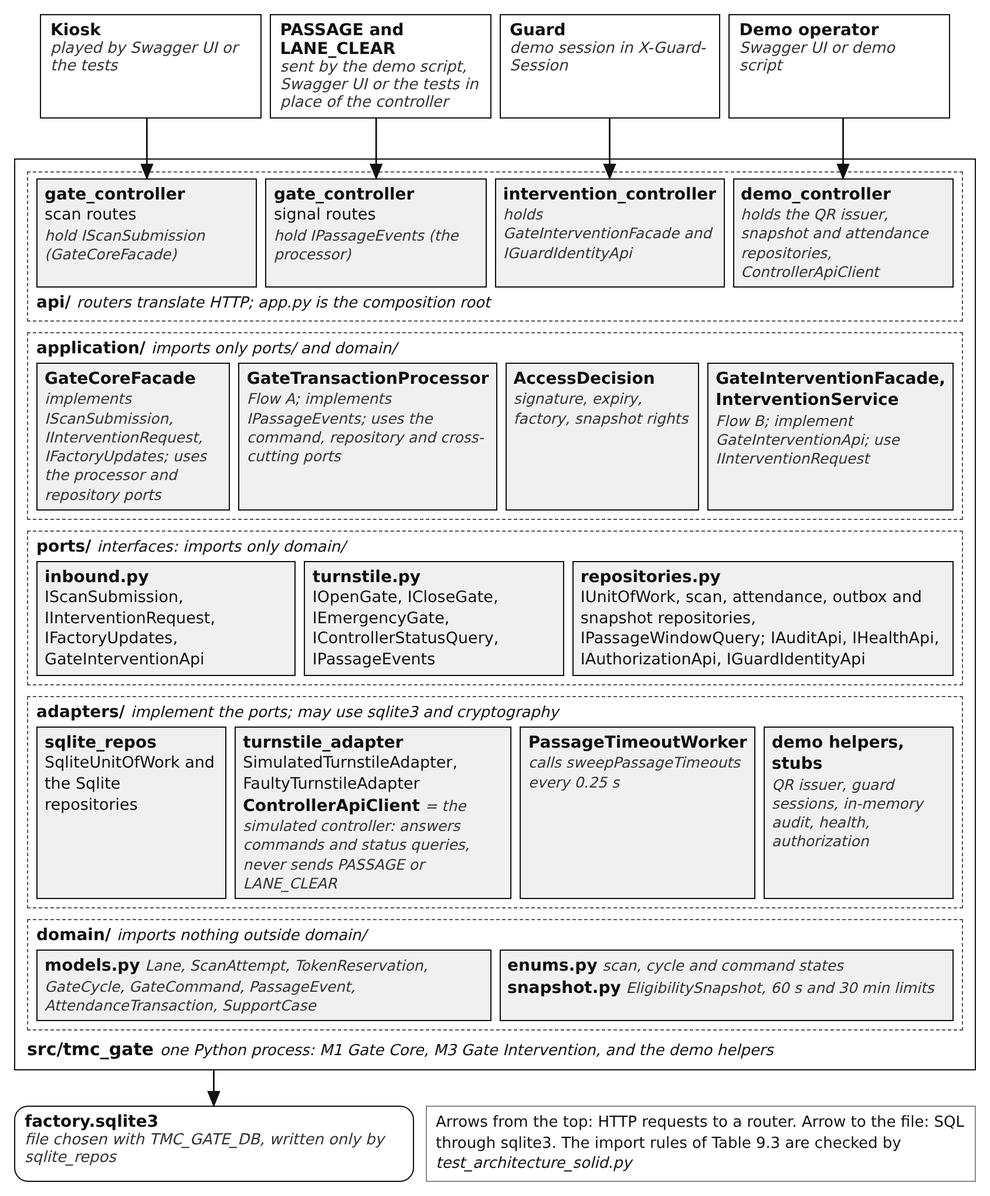
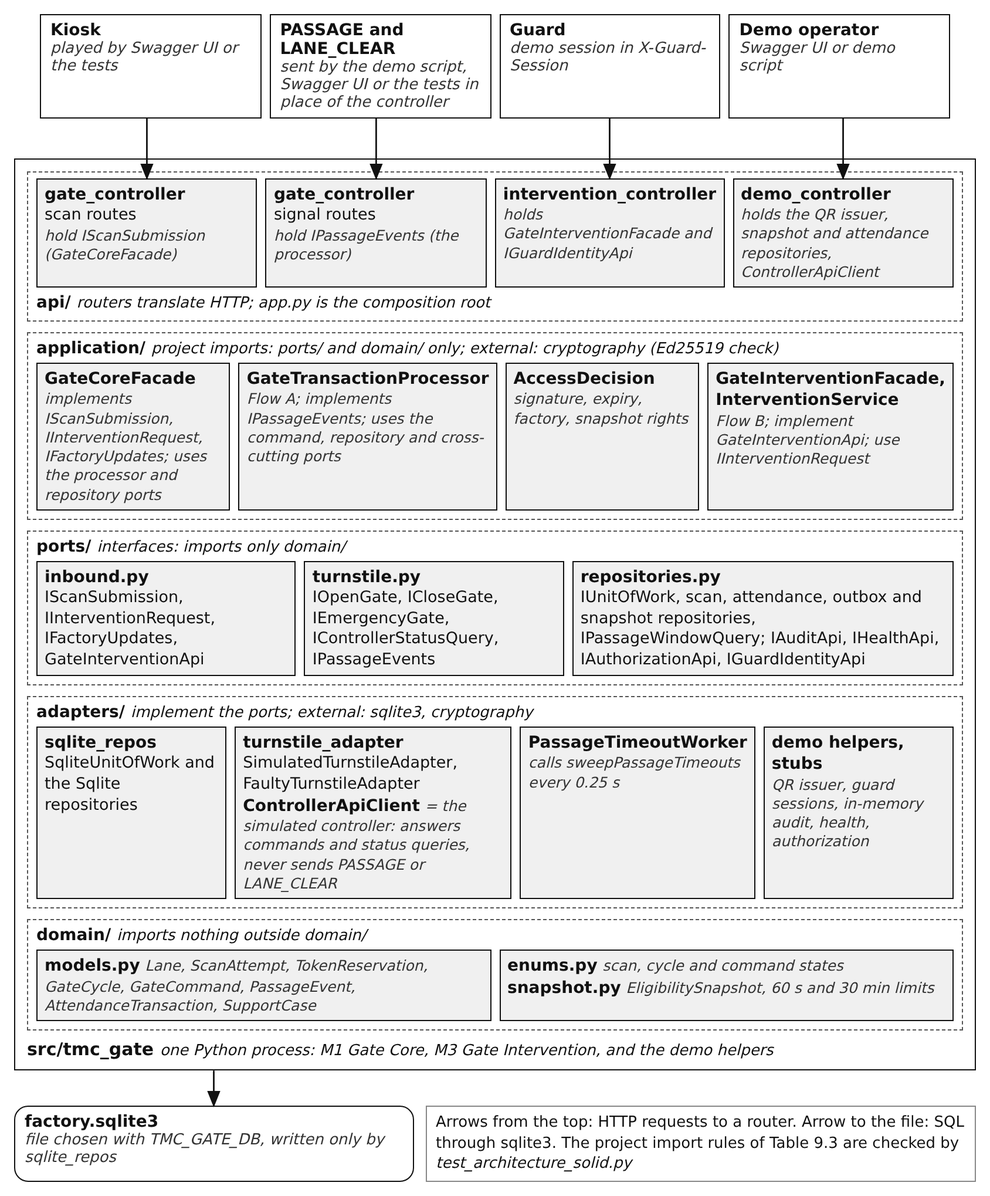
docs(report): one-page Division of Work, 9.9 Source Code, SOLID wording fixes
- Division of Work: No. | Task | Assigned To | Completion, 13 rows, one page
- Ch.9: new 9.9 Source Code; 9.2 points to it instead of repeating the repo intro
- 9.4: SRP by actor (I-06), processor size is not SRP evidence, OCP via Gate Core ports,
  composition root in app.py, three import tests + one ISP test do not prove all of SOLID
- 9.3.4: typed ports narrow dependencies; endpoints and server-side checks enforce access
- Table 9.3 and Fig 9.1: separate project imports from external libraries (cryptography)
- 7.1: SRP actor wording, OCP adapter dependency direction, 7.1.4 emergency coordinator fixed
- 8.2: IScanRepository width (14 ops vs 2 used by facade) as a known ISP limitation
- report/README.md: drop outdated Phase B notes

Claude-Session: https://claude.ai/code/session_011HNWiCp34yc3HGfsGTP4VL

diff --git a/report/diagram/implementation/figure-9-1-prototype-structure.html b/report/diagram/implementation/figure-9-1-prototype-structure.html
@@ -28,7 +28,7 @@ svg{position:absolute;left:0;top:0;overflow:visible;pointer-events:none}
   <div class=b id=ic><b>intervention_controller</b><br><i>holds GateInterventionFacade and IGuardIdentityApi</i></div>
   <div class=b id=dc><b>demo_controller</b><br><i>holds the QR issuer, snapshot and attendance repositories, ControllerApiClient</i></div>
  </div><div class=lt style="margin:5px 0 0">api/ <span class=sub>routers translate HTTP; app.py is the composition root</span></div></div>
- <div class=layer><div class=lt>application/ <span class=sub>imports only ports/ and domain/</span></div><div class=row>
+ <div class=layer><div class=lt>application/ <span class=sub>project imports: ports/ and domain/ only; external: cryptography (Ed25519 check)</span></div><div class=row>
   <div class=b><b>GateCoreFacade</b><br><i>implements IScanSubmission, IInterventionRequest, IFactoryUpdates; uses the processor and repository ports</i></div>
   <div class=b><b>GateTransactionProcessor</b><br><i>Flow A; implements IPassageEvents; uses the command, repository and cross-cutting ports</i></div>
   <div class=b><b>AccessDecision</b><br><i>signature, expiry, factory, snapshot rights</i></div>
@@ -39,7 +39,7 @@ svg{position:absolute;left:0;top:0;overflow:visible;pointer-events:none}
   <div class=b><b>turnstile.py</b><br>IOpenGate, ICloseGate, IEmergencyGate, IControllerStatusQuery, IPassageEvents</div>
   <div class=b style="flex:1.5"><b>repositories.py</b><br>IUnitOfWork, scan, attendance, outbox and snapshot repositories, IPassageWindowQuery; IAuditApi, IHealthApi, IAuthorizationApi, IGuardIdentityApi</div>
  </div></div>
- <div class=layer><div class=lt>adapters/ <span class=sub>implement the ports; may use sqlite3 and cryptography</span></div><div class=row>
+ <div class=layer><div class=lt>adapters/ <span class=sub>implement the ports; external: sqlite3, cryptography</span></div><div class=row>
   <div class=b id=sq><b>sqlite_repos</b><br>SqliteUnitOfWork and the Sqlite repositories</div>
   <div class=b id=ta style="flex:1.5"><b>turnstile_adapter</b><br>SimulatedTurnstileAdapter, FaultyTurnstileAdapter<br><b>ControllerApiClient</b> <i>= the simulated controller: answers commands and status queries, never sends PASSAGE or LANE_CLEAR</i></div>
   <div class=b><b>PassageTimeoutWorker</b><br><i>calls sweepPassageTimeouts every 0.25 s</i></div>
@@ -53,7 +53,7 @@ svg{position:absolute;left:0;top:0;overflow:visible;pointer-events:none}
 </div>
 <div class=below>
  <div class=ext id=db style="border-radius:12px;flex:1"><b>factory.sqlite3</b><br><i>file chosen with TMC_GATE_DB, written only by sqlite_repos</i></div>
- <div class=leg>Arrows from the top: HTTP requests to a router. Arrow to the file: SQL through sqlite3. The import rules of Table 9.3 are checked by <i>test_architecture_solid.py</i></div>
+ <div class=leg>Arrows from the top: HTTP requests to a router. Arrow to the file: SQL through sqlite3. The project import rules of Table 9.3 are checked by <i>test_architecture_solid.py</i></div>
 </div>
 <svg id=s width=850 height=1200><defs><marker id=a markerWidth=10 markerHeight=8 refX=9 refY=4 orient=auto><path d="M0,0 L10,4 L0,8 z" fill="#111"/></marker></defs></svg>
 </div>

diff --git a/report/chapters/task2.tex b/report/chapters/task2.tex
@@ -47,13 +47,7 @@ Since there is no real controller, central application, or standby server, the p
 \phantomsection
 \addcontentsline{toc}{subsection}{9.2. Technology Stack and Repository}
 
-The source code, the tests, and the LaTeX source of this report are kept together in one GitHub repository:
-
-\begin{center}
-{\small\url{https://github.com/Khoavan1406-hub/tmc-qr-attendance-cc01-group1}}
-\end{center}
-
-The submitted version is the commit on the \texttt{main} branch with the tag \texttt{m2-submission}. Table 9.2 shows the tools we used and why each one fits this prototype.
+The code, the tests, and the source of this report are kept in one GitHub repository, described in Section 9.9. Table 9.2 shows the tools we used and why each one fits this prototype.
 
 \begin{longtable}{|>{\raggedright\arraybackslash}p{90.5pt}|>{\raggedright\arraybackslash}p{120.5pt}|>{\raggedright\arraybackslash}p{199.5pt}|}
 \hline
@@ -100,7 +94,7 @@ The code lives in one Python package, \code{src/tmc_gate}. We describe it in fou
 \phantomsection
 \addcontentsline{toc}{subsubsection}{9.3.1. Folders and Layers}
 
-The folders follow the Entry, Business, and Persistence layers of Gate Core in Figure 4.2 (Section 4.1.6). The interfaces that Gate Core owns have their own folder, \code{ports/}, between the business rules and the adapters, so the business code can depend on them without knowing which adapter is behind them. Table 9.3 shows what each folder holds and what it is allowed to import. We did not want this to stay a convention that people could forget, so \code{tests/test_architecture_solid.py} reads the import statements of every file and fails when a layer imports something it should not.
+The folders follow the Entry, Business, and Persistence layers of Gate Core in Figure 4.2 (Section 4.1.6). The interfaces that Gate Core owns have their own folder, \code{ports/}, between the business rules and the adapters, so the business code can depend on them without knowing which adapter is behind them. Table 9.3 shows what each folder holds and what it is allowed to import. The last column separates imports between our own folders from external libraries: the import tests only forbid the application layer from using storage, web, and adapter code, so AccessDecision may use the \texttt{cryptography} library directly to verify the Ed25519 signature. We did not want this to stay a convention that people could forget, so \code{tests/test_architecture_solid.py} reads the import statements of every file and fails when a layer imports something it should not.
 
 \begin{longtable}{|>{\raggedright\arraybackslash}p{86.5pt}|>{\raggedright\arraybackslash}p{194.5pt}|>{\raggedright\arraybackslash}p{129.5pt}|}
 \hline
@@ -113,9 +107,9 @@ The folders follow the Entry, Business, and Persistence layers of Gate Core in F
 \hline
 \code{ports/} & Interfaces owned by Gate Core: IScanSubmission, IInterventionRequest, IFactoryUpdates, the turnstile ports, IUnitOfWork, the repository ports, IPassageWindowQuery, and the cross-cutting ports. & \code{domain/} \\
 \hline
-\code{application/} & AccessDecision, GateTransactionProcessor, GateCoreFacade, InterventionService, and GateInterventionFacade. & \code{domain/}, \code{ports/} \\
+\code{application/} & AccessDecision, GateTransactionProcessor, GateCoreFacade, InterventionService, and GateInterventionFacade. & \code{domain/}, \code{ports/}; external library: \texttt{cryptography} (Ed25519 check in AccessDecision) \\
 \hline
-\code{adapters/} & SQLite repositories and unit of work, PassageTimeoutWorker, the simulated turnstile adapters, the demo QR issuer, the demo guard sessions, and in-memory stubs. & All inner layers, plus \texttt{sqlite3} and \texttt{cryptography} \\*
+\code{adapters/} & SQLite repositories and unit of work, PassageTimeoutWorker, the simulated turnstile adapters, the demo QR issuer, the demo guard sessions, and in-memory stubs. & All inner layers; external libraries: \texttt{sqlite3}, \texttt{cryptography} \\*
 \hline\noalign{\nobreak}
 \code{api/} & FastAPI routers for the kiosk, the controller signals, the guard actions, and the demo helpers. \code{app.py} is the composition root that creates every object and passes the adapters in. & Everything \\
 \hline
@@ -226,7 +220,7 @@ Figure 9.3 is a screenshot of the Swagger page of the running prototype. The end
 
 \vspace{10pt}
 
-Table 9.5 lists the same endpoints with what each router is given in \code{app.py}. The kiosk and signal routes only get a port, so they cannot start an intervention. The guard routes get GateInterventionFacade and, for the session check, IGuardIdentityApi; they have no way to submit a scan. The demo routes are wired directly to demo helpers, which is acceptable only because they are not mounted outside demo mode.
+Table 9.5 lists the same endpoints with what each router is given in \code{app.py}. The kiosk and signal routes are typed with a port, so the dependency they declare is narrow. This is not an access control by itself: in Python, \code{app.py} still passes the whole GateCoreFacade object to the kiosk router. What keeps a kiosk from starting an intervention is that no kiosk endpoint calls such an operation, and that the guard endpoints check the guard session on the server. The guard routes get GateInterventionFacade and, for that session check, IGuardIdentityApi. The demo routes are wired directly to demo helpers, which is acceptable only because they are not mounted outside demo mode.
 
 \noindent\begin{minipage}{\linewidth}
 \centering
@@ -271,17 +265,19 @@ Table 9.5 lists the same endpoints with what each router is given in \code{app.p
 \phantomsection
 \addcontentsline{toc}{subsection}{9.4. SOLID in the Code}
 
-Section 7.1 explains how SOLID shaped the modules on paper. Here we look at where each principle shows up in the code and which test would fail if we broke it.
+Section 7.1 explains how SOLID shaped the modules on paper. Here we look at where each principle shows up in the code and, where one exists, which test checks it.
 
-The single responsibility principle is easiest to see in the application layer. AccessDecision (\code{application/access_decision.py}) only checks the token against the snapshot and returns a DecisionResult. It has no turnstile port, so it cannot open a gate even by mistake. The rules about how fresh the access data must be live in EligibilitySnapshot (\code{domain/snapshot.py}), the gate cycle lives in GateTransactionProcessor, and InterventionService only checks what a guard is allowed to do and leaves the gate commands to Gate Core. Because of this split, \code{test_pkg1_snapshot.py} can test the snapshot rules alone, and \code{test_pkg2_access_decision.py} can call AccessDecision.evaluate twice on the same data and check that it gives the same answer without changing anything.
+The single responsibility principle is about actors: a module should answer to one group of people who ask for the same kind of change. ``One reason to change'' says the same thing, as long as the reason is traced back to who asks for it. In our code, the gate rules are asked for by the people who run the factory gates and security, while shift and payroll rules come from HR. Because of I-06, a change in the shift or attendance rules of HR does not reach the gate decision: AccessDecision (\code{application/access_decision.py}) only checks the token against the snapshot and returns a DecisionResult, and it has no shift input and no turnstile port. The rules about how fresh the access data must be live in EligibilitySnapshot (\code{domain/snapshot.py}), and InterventionService only checks what a guard is allowed to do and leaves the gate commands to Gate Core.
 
-For the open/closed principle, the place that changes is the controller. A new turnstile model would be a new class in \code{adapters/} that implements ITurnstileControl, and only \code{api/app.py} decides which adapter to use. \code{test_pkg5_adapter_with_processor.py} runs the same GateTransactionProcessor with both adapter classes we have, and the processor did not need any change for the second one.
+GateTransactionProcessor is the largest class, and its size alone does not show that SRP holds or fails. Its responsibility is to coordinate the life cycle of one gate transaction: accept the scan, reserve the lane, open, handle PASSAGE and LANE\_CLEAR, close, and handle the emergency commands on the same lane. The eligibility check, the storage, and the controller protocol have been moved out to AccessDecision, the repositories, and the adapters, so a change in one of them does not edit the processor. GateCoreFacade is a thin entry point that turns the inbound ports into processor calls; its name is not evidence of SRP either. Because of the split, \code{test_pkg1_snapshot.py} can test the snapshot rules alone, and \code{test_pkg2_access_decision.py} can call AccessDecision.evaluate twice on the same data and check that it gives the same answer without changing anything.
+
+For the open/closed principle, the place that changes is the controller. The ports in \code{ports/turnstile.py} belong to Gate Core, and the adapters depend on them, not the other way round. A new turnstile model would be a new class in \code{adapters/} that implements ITurnstileControl, and \code{api/app.py} decides which adapter is passed in. This is close to the Strategy idea from the lecture: the processor keeps its rules and only the object behind the port is swapped. \code{test_pkg5_adapter_with_processor.py} runs the same GateTransactionProcessor with both adapter classes we have, and the processor did not need any change for the second one.
 
 The Liskov substitution principle matters most for the meaning of a controller result. The port file \code{ports/turnstile.py} fixes the set of results that each command may return. A receipt or a timeout must come back as UNDETERMINED, not as OPEN\_CONFIRMED or CONTROLLER\_ERROR. One contract test file, \code{test_pkg5_turnstile_contract.py}, runs the same checks against SimulatedTurnstileAdapter and FaultyTurnstileAdapter, and both pass. We also wrote a third adapter that reports a receipt as OPEN\_CONFIRMED. It fails the same contract, and this test is marked as an expected failure on purpose.
 
-Interface segregation shows in how GateCoreApi is split into IScanSubmission, IInterventionRequest, and IFactoryUpdates (\code{ports/inbound.py}). The kiosk router only receives IScanSubmission, InterventionService only receives IInterventionRequest, and the controller routes only receive IPassageEvents. On the other side, the processor depends on IOpenGate, ICloseGate, and IEmergencyGate one by one, even though one adapter class implements all three as ITurnstileControl. \code{test_interface_segregation_principle_contracts} checks that the kiosk interface has no intervention or sync operation and that IPassageEvents has only onPassage and onLaneClear.
+Interface segregation is judged from the consumer's side. It shows in how GateCoreApi is split into IScanSubmission, IInterventionRequest, and IFactoryUpdates (\code{ports/inbound.py}). The kiosk router only receives IScanSubmission, InterventionService only receives IInterventionRequest, and the controller routes only receive IPassageEvents. On the other side, the processor depends on IOpenGate, ICloseGate, and IEmergencyGate one by one, even though one adapter class implements all three as ITurnstileControl. \code{test_interface_segregation_principle_contracts} checks that the kiosk interface has no intervention or sync operation and that IPassageEvents has only onPassage and onLaneClear. The split is not complete everywhere: IScanRepository still has 14 operations, all used by the processor, while GateCoreFacade only uses get\_scan and save\_scan. Section 8.2 discusses this limitation.
 
-Dependency inversion is what made the group work possible. GateTransactionProcessor receives all its ports and its IUnitOfWork through the constructor, and the application layer does not import \texttt{sqlite3}, \texttt{fastapi}, \code{adapters/}, or \code{api/}; three import tests in \code{test_architecture_solid.py} check this. We wrote and merged the ports before anything else, so six people could work in parallel against fakes. Packages 1, 3, and 6 were finished and tested before the SQLite repositories or the turnstile adapter existed.
+Dependency inversion is what made the group work possible. GateTransactionProcessor receives all its ports and its IUnitOfWork through the constructor, and the application layer does not import \texttt{sqlite3}, \texttt{fastapi}, \code{adapters/}, or \code{api/}. \code{api/app.py} is the composition root: it creates the main dependencies (the SQLite repositories and unit of work, the turnstile adapter, the processor, the facades, and the timeout worker) and connects them. In \code{test_architecture_solid.py}, three import tests check the domain, ports, and application layers one by one, and a fourth test checks the ISP splits. These tests check the direction of dependencies and the shape of the ports; they do not prove all five principles, and SRP and OCP in particular are design judgements supported by the examples above. We wrote and merged the ports before anything else, so six people could work in parallel against fakes. Packages 1, 3, and 6 were finished and tested before the SQLite repositories or the turnstile adapter existed.
 
 Only one port was added after that point. While checking the code before submission we found that a cycle with no PASSAGE could stay OPENED, because nothing triggered the 15-second timeout once LANE\_CLEAR had already released the lane. The processor needed a way to find such cycles by their own state, so we added the small read port IPassageWindowQuery (\code{list_cycles_awaiting_passage}, \code{get_cycle_by_scan}) instead of putting two more methods on IScanRepository. SqliteScanRepository implements it, and PassageTimeoutWorker uses it through the processor (Section 9.5, step A8).
 
@@ -525,3 +521,18 @@ Table 9.8 only states what can be seen in the HTTP answers and in the database f
 Passing tests do not close the open issues listed in Section 10.2. The simulated controller answers commands the way I-01 and I-03 assume, and the PASSAGE and LANE\_CLEAR signals of I-05 are sent by the tests and scripts, so the runs show that Gate Core handles those signals correctly, but not that a real controller sends them. The tests check how the 2-second budget is shared out using a test clock; they do not measure the response time on factory hardware with a real kiosk and controller. There is also a gap in the budget itself. The prototype starts a 2,000 ms processing budget when processScan begins, because the HTTP route does not pass a kiosk deadline. This budget does not reserve the kiosk, network, and display time allocated in Table 5.4. Meeting NFR-01 requires budgeting those stages together and measuring from QR reading to result display. SQLite has no standby, so the synchronous replication and the failover rules of Section 5.6 are not tested either.
 
 Synchronization is only partly there. IFactoryUpdates applies snapshot changes and reads the local outbox, but without Site Sync or a central application we drive degraded mode by setting the age of the access data by hand. Finally, the guard session and the authorization checks are demo stubs, and the QR private key is created in the same process as the factory code, which the target design does not allow.
+
+
+\Needspace{9\baselineskip}
+\subsection*{9.9. Source Code}
+
+\phantomsection
+\addcontentsline{toc}{subsection}{9.9. Source Code}
+
+The implementation, the automated tests, and the LaTeX source of this report are available at
+
+\begin{center}
+{\small\url{https://github.com/Khoavan1406-hub/tmc-qr-attendance-cc01-group1}}
+\end{center}
+
+The Python package is in \code{src/tmc_gate/}, the tests are in \code{tests/}, and the report source is in \code{report/}. The \code{README.md} file at the root of the repository explains how to install the dependencies, run the test suite, and start the demo, while \code{ARCHITECTURE_RULES.md} records the rules we followed when writing the code, such as the allowed import directions and the gate thresholds. The architectural decisions themselves are not kept as separate files in the repository; they are documented in Chapter 6. All work was merged into the \texttt{dev} branch through pull requests. The code in \code{src/} and \code{tests/} has not changed since commit 5bd6721, which is the commit behind the test results in Section 9.7.

diff --git a/report/chapters/chapter7.tex b/report/chapters/chapter7.tex
@@ -17,16 +17,16 @@ Each module owns its own decisions and data. Gate Core owns factory scan and pas
 \phantomsection
 \addcontentsline{toc}{subsubsection}{7.1.1. Single Responsibility Principle (SRP)}
 
-A unit should have one cohesive responsibility, so that only one kind of change makes it change. This is different from doing only one operation. Gate Transaction Processor, for example, receives a scan, handles repeated requests, asks for the eligibility check, stores the accepted attempt, and coordinates opening, passage, and closing. It does many things, but all of them belong to one gate transaction, while accounts, shift rules, and reports live in other components.
+Following the lecture, a module should be responsible to one actor, that is, one group of users or stakeholders who ask for the same kind of change. ``One reason to change'' is the same rule when the reason is traced back to that actor. This is different from doing only one operation. Gate Transaction Processor, for example, receives a scan, handles repeated requests, asks for the eligibility check, stores the accepted attempt, and coordinates opening, passage, and closing. It does many things, but all of them belong to one gate transaction and are asked for by the same side of the business, the people who run the gates and factory security. Accounts, shift rules, and reports are requested by other actors and live in other components.
 
-The same idea separates Access Decision from Turnstile Adapter. Access Decision only decides eligibility, so a change in how the controller is called stays in the adapter. Shift rules are kept apart in the same way: under I-06 they affect Work Schedule Policy and attendance aggregation, not the gate decision. If TMC later wants shifts to restrict physical access as well, Access Decision would need an explicit access-policy rule, which should still be separate from the QR signature check. In Attendance, Attendance Review manages cases and approval authority, while Attendance Consolidation applies the right decision version, prevents duplicates, and keeps links to the original data. As a result, a new approval workflow or a new controller can be introduced without rewriting attendance aggregation or the gate rules.
+The same idea separates Access Decision from Turnstile Adapter. Access Decision only decides eligibility, so a change in how the controller is called stays in the adapter. Shift rules are kept apart in the same way. They belong to HR, and under I-06 they affect Work Schedule Policy and attendance aggregation, not the gate decision, so a change that HR asks for in shift or attendance rules does not change who may pass the gate. If TMC later wants shifts to restrict physical access as well, Access Decision would need an explicit access-policy rule, which should still be separate from the QR signature check. In Attendance, Attendance Review manages cases and approval authority, while Attendance Consolidation applies the right decision version, prevents duplicates, and keeps links to the original data. As a result, a new approval workflow or a new controller can be introduced without rewriting attendance aggregation or the gate rules.
 
 \subsubsection*{7.1.2. Open--Closed Principle (OCP)}
 
 \phantomsection
 \addcontentsline{toc}{subsubsection}{7.1.2. Open--Closed Principle (OCP)}
 
-OCP is about adding behavior by adding code at a known extension point instead of editing the rules that already work. In TMC the clearest extension points are the two external integrations. A new controller that keeps the meaning of the turnstile ports (opening and closing results, passage and lane-clear events, emergency release and reset) only needs a new adapter, and the gate rules stay as they are. In the same way, an HR/Payroll format change that keeps the meaning of IPayrollSubmission only touches HR/Payroll Adapter. Work Schedule Policy plays a similar role for shift and aggregation rules: a change that fits its configuration model is made once, not separately in Attendance and Reporting, but a rule outside that model still needs new code and tests.
+OCP is about adding behavior by adding code at a known extension point instead of editing the rules that already work. In TMC the clearest extension points are the two external integrations. The ports are defined by the module that uses them (Gate Core for the turnstile, Payroll Handover for HR/Payroll), and the adapters depend on those ports. A new controller that keeps the meaning of the turnstile ports (opening and closing results, passage and lane-clear events, emergency release and reset) only needs a new adapter, and the gate rules stay as they are. In the same way, an HR/Payroll format change that keeps the meaning of IPayrollSubmission only touches HR/Payroll Adapter. Work Schedule Policy plays a similar role for shift and aggregation rules: a change that fits its configuration model is made once, not separately in Attendance and Reporting, but a rule outside that model still needs new code and tests.
 
 We should be honest about how far this goes. Each application is a Modular Monolith, so replacing an adapter may still need a new release of that application. What OCP gives us here is that an integration change does not spread into unrelated components.
 
@@ -58,7 +58,7 @@ IPayrollSubmission has the same kind of rule. A receipt acknowledgement (I-02) o
 A consumer should only see the operations it actually calls. Table 4.20 lists the public interfaces in groups, and in the design each group is split into narrower contracts:
 
 \begin{itemize}[leftmargin=36pt, itemsep=2pt, topsep=4pt, parsep=2pt]
-  \item \textbf{Turnstile ports.} IOpenGate (openGate with a time limit), ICloseGate (closeGate), and IEmergencyGate (emergencyRelease and reset) are commands that return their results, and Turnstile Adapter implements them against the verified controller API (I-01, I-05). IPassageEvents (PASSAGE and LANE\_CLEAR) goes the other way: Gate Core implements it, and Turnstile Adapter calls it when the controller reports these events. Gate Transaction Processor uses the normal-cycle contracts, and the emergency coordinator uses IEmergencyGate. IControllerStatusQuery is a separate optional contract, used only where the controller API supports it.
+  \item \textbf{Turnstile ports.} IOpenGate (openGate with a time limit), ICloseGate (closeGate), and IEmergencyGate (emergencyRelease and reset) are commands that return their results, and Turnstile Adapter implements them against the verified controller API (I-01, I-05). IPassageEvents (PASSAGE and LANE\_CLEAR) goes the other way: Gate Core implements it, and Turnstile Adapter calls it when the controller reports these events. Gate Transaction Processor uses IOpenGate and ICloseGate for the normal cycle and IEmergencyGate for emergency release and reset, which Gate Intervention requests through IInterventionRequest. IControllerStatusQuery is a separate optional contract, used only where the controller API supports it.
   \item \textbf{GateCoreApi.} IScanSubmission is for Station Client, IInterventionRequest is for Gate Intervention (support case, assisted opening, emergency release and reset), and IFactoryUpdates is for Site Sync.
   \item \textbf{Other APIs.} AttendanceApi separates review and approval from period-data queries, AuthorizationApi separates account administration from authorization checks, and AuditApi separates record intake from queries.
 \end{itemize}
@@ -70,7 +70,7 @@ With this split, a change to one contract only affects the consumer that uses it
 \phantomsection
 \addcontentsline{toc}{subsubsection}{7.1.5. Dependency Inversion Principle (DIP)}
 
-Business code should depend on abstractions that it defines itself, and the details of external systems should plug into them. Gate Transaction Processor depends on the command ports that Gate Core defines (IOpenGate, ICloseGate, IEmergencyGate), not on the Controller API format. Turnstile Adapter reports events back through IPassageEvents, which Gate Core also defines, so in both directions the arrows point to Gate Core. Storage works the same way. A unit-of-work port (IUnitOfWork) owns each transaction, so reserving the lane, claiming the token, and storing ACCEPTED happen in one write while Gate Transaction Processor does not know which database is behind it. Payroll Handover likewise depends on IPayrollSubmission and knows nothing about HR/Payroll connection details or response structures.
+Business code should depend on abstractions that it defines itself, and the details of external systems should plug into them. Gate Transaction Processor depends on the command ports that Gate Core defines (IOpenGate, ICloseGate, IEmergencyGate), not on the Controller API format. Turnstile Adapter reports events back through IPassageEvents, which Gate Core also defines, so in both directions the arrows point to Gate Core. Storage works the same way. A unit-of-work port (IUnitOfWork) owns each transaction, so reserving the lane, claiming the token, and storing ACCEPTED happen in one write while Gate Transaction Processor does not know which database is behind it. Payroll Handover likewise depends on IPayrollSubmission and knows nothing about HR/Payroll connection details or response structures. The concrete adapters are chosen when each application is assembled at start-up, in one composition root, so the business code never names them.
 
 This also makes testing easier. Test adapters return command outcomes and deliver PASSAGE and LANE\_CLEAR through IPassageEvents, and receipt-only and timeout cases produce UNDETERMINED. A shared contract test suite checks that adapters can be swapped, and before go-live the same meanings must also be checked in integration tests against the real controller. The Task 2 prototype only uses a simulated controller (Section 9.8). We add an interface only when it helps substitution, testing, or isolating a real dependency. Ordinary calls inside a module stay direct.
 

diff --git a/report/main.tex b/report/main.tex
@@ -160,24 +160,38 @@
 {\fontsize{17}{20}\selectfont\textbf{Division of Work}}
 \end{center}
 
-\vspace{6pt}
-{\renewcommand{\arraystretch}{1.4}
+\vspace{2pt}
+{\renewcommand{\arraystretch}{1.25}\setstretch{1.0}
 \begin{center}
-\begin{tabular}{|>{\centering\arraybackslash}p{20pt}|>{\raggedright\arraybackslash}p{88pt}|>{\raggedright\arraybackslash}p{122pt}|>{\raggedright\arraybackslash}p{118pt}|>{\centering\arraybackslash}p{46pt}|}
+\begin{tabular}{|>{\centering\arraybackslash}p{22pt}|>{\raggedright\arraybackslash}p{216pt}|>{\raggedright\arraybackslash}p{94pt}|>{\centering\arraybackslash}p{60pt}|}
 \hline
-\multicolumn{1}{|>{\columncolor{tableheader}\centering\arraybackslash}p{20pt}|}{\textbf{No.}} & \multicolumn{1}{>{\columncolor{tableheader}\centering\arraybackslash}p{88pt}|}{\textbf{Member}} & \multicolumn{1}{>{\columncolor{tableheader}\centering\arraybackslash}p{122pt}|}{\textbf{Task 1 (report)}} & \multicolumn{1}{>{\columncolor{tableheader}\centering\arraybackslash}p{118pt}|}{\textbf{Task 2 (code)}} & \multicolumn{1}{>{\columncolor{tableheader}\centering\arraybackslash}p{46pt}|}{\textbf{Done}} \\
+\multicolumn{1}{|>{\columncolor{tableheader}\centering\arraybackslash}p{22pt}|}{\textbf{No.}} & \multicolumn{1}{>{\columncolor{tableheader}\centering\arraybackslash}p{216pt}|}{\textbf{Task}} & \multicolumn{1}{>{\columncolor{tableheader}\centering\arraybackslash}p{94pt}|}{\textbf{Assigned To}} & \multicolumn{1}{>{\columncolor{tableheader}\centering\arraybackslash}p{60pt}|}{\textbf{Completion}} \\
 \hline
-1 & {\fontencoding{T5}\selectfont Văn Công Khoa} & Ch.1 Context and Requirements & Pkg 5: turnstile adapters, contract tests; port contracts, code review, repository & 100\% \\
+1 & \textbf{Ch.1 Context and Requirements:} business context, stakeholders, FR/NFR, assumptions I-01 to I-10 and main flows & {\fontencoding{T5}\selectfont Văn Công Khoa} & 100\% \\
 \hline
-2 & {\fontencoding{T5}\selectfont Phạm Đăng Khoa} & Ch.2 Architecture Characteristics & Pkg 3: GateTransactionProcessor, GateCoreFacade, API, Flow A tests & 100\% \\
+2 & \textbf{Ch.2 Architecture Characteristics:} driving characteristics, workload estimate and quality trade-offs & {\fontencoding{T5}\selectfont Phạm Đăng Khoa} & 100\% \\
 \hline
-3 & {\fontencoding{T5}\selectfont Châu Anh Nhật} & Ch.4 Logical Architecture and its diagrams & Pkg 1: EligibilitySnapshot rules and boundary tests & 100\% \\
+3 & \textbf{Ch.3 Architecture Style Selection:} candidate styles, comparison and choice of Service-based Architecture with Event-driven Integration & {\fontencoding{T5}\selectfont Trần Liên Khang} & 100\% \\
 \hline
-4 & {\fontencoding{T5}\selectfont Trần Liên Khang} & Ch.3 Style Selection; Ch.5 Physical Architecture, Issue 1 (5.8.1) & Pkg 4: SQLite unit of work, repositories, outbox & 100\% \\
+4 & \textbf{Ch.4 Logical Architecture:} module view, C\&C view, sequence diagrams, implementation class and data views & {\fontencoding{T5}\selectfont Châu Anh Nhật} & 100\% \\
 \hline
-5 & {\fontencoding{T5}\selectfont Tào Nguyễn Quang Khang} & Ch.7 Design Principles and Security, Issue 2 (5.8.2) & Pkg 2: demo QR issuance, AccessDecision & 100\% \\
+5 & \textbf{Ch.5 Physical Architecture:} deployment view, operating policies and connectivity-loss analysis (\S5.8.1) & {\fontencoding{T5}\selectfont Trần Liên Khang} & 100\% \\
 \hline
-6 & {\fontencoding{T5}\selectfont Nguyễn Phước Quý Bảo} & Ch.6 ADRs, Ch.8 Reflection, Ch.10 Conclusion; integration & Pkg 6: Gate Intervention, Flow B tests, README; Ch.9 & 100\% \\
+6 & \textbf{Ch.7 Design Principles and Security:} SOLID, cohesion and coupling, data security; static-QR exposure analysis (\S5.8.2) & {\fontencoding{T5}\selectfont Tào Nguyễn Quang Khang} & 100\% \\
+\hline
+7 & \textbf{Ch.6 ADRs, Ch.8 Reflection and Ch.10 Conclusion:} eleven ADRs, reflection on SOLID, open issues and future work & {\fontencoding{T5}\selectfont Nguyễn Phước Quý Bảo} & 100\% \\
+\hline
+8 & \textbf{Ch.9 Implementation documentation; Pkg 6 Gate Intervention:} assisted open and emergency services, Flow B tests, README and integration & {\fontencoding{T5}\selectfont Nguyễn Phước Quý Bảo} & 100\% \\
+\hline
+9 & \textbf{Pkg 1:} EligibilitySnapshot rules (60-second and 30-minute limits) and boundary tests & {\fontencoding{T5}\selectfont Châu Anh Nhật} & 100\% \\
+\hline
+10 & \textbf{Pkg 2:} QR issuance for the demo, Ed25519 verification and AccessDecision & {\fontencoding{T5}\selectfont Tào Nguyễn Quang Khang} & 100\% \\
+\hline
+11 & \textbf{Pkg 3:} GateTransactionProcessor, GateCoreFacade, HTTP API and Flow A tests & {\fontencoding{T5}\selectfont Phạm Đăng Khoa} & 100\% \\
+\hline
+12 & \textbf{Pkg 4:} SQLite unit of work, repositories and outbox & {\fontencoding{T5}\selectfont Trần Liên Khang} & 100\% \\
+\hline
+13 & \textbf{Pkg 5:} turnstile adapters and contract tests; shared port contracts, code review and repository coordination & {\fontencoding{T5}\selectfont Văn Công Khoa} & 100\% \\
 \hline
 \end{tabular}
 \end{center}

diff --git a/report/chapters/reflection.tex b/report/chapters/reflection.tex
@@ -18,7 +18,7 @@ Each principle changed a concrete part of the design:
   \item \textbf{SRP split overloaded components.} In the first component list, Access Decision both checked access and drove the gate, and one attendance component both reviewed cases and changed records. Splitting them by reason to change gave Gate Transaction Processor, Access Decision, Attendance Review, and Attendance Consolidation (Table 4.2). Each one now has a clear owner and a clear test target.
   \item \textbf{DIP and OCP let us design around unknown APIs.} The controller and HR/Payroll APIs are not fully specified (I-01, I-02, I-05). Because Gate Core and Payroll Handover define ITurnstileControl and IPayrollSubmission themselves, we could design the gate and handover rules against clear meanings and leave the vendor details to the adapters.
   \item \textbf{LSP made us define what ``confirmed'' means.} Writing down the behavior every controller adapter must keep showed that a command receipt, an opening, a passage, and a closing are different facts. This became the core of ADR-02: attendance follows passage, not the opening signal.
-  \item \textbf{ISP turned interface design into permission rules.} Splitting GateCoreApi by consumer showed that the kiosk only needs to submit and query scans. Together with the permission checks on the server, this narrow interface keeps the kiosk away from recordIntervention and emergency operations (Section 5.5).
+  \item \textbf{ISP turned interface design into permission rules.} Splitting GateCoreApi by consumer showed that the kiosk only needs to submit and query scans. This narrow interface limits what the kiosk code depends on. The permission checks on the server are still what actually stop a kiosk from calling recordIntervention or emergency operations (Section 5.5).
 \end{itemize}
 
 \Needspace{9\baselineskip}
@@ -35,6 +35,7 @@ Applying the principles was not always straightforward:
   \item \textbf{Modules versus classes.} Most examples of SOLID are about classes, but our main decisions are about modules in three applications. OCP at this level still needs a new release when an adapter changes; the gain is that the change stays in one place.
   \item \textbf{Contracts built on assumptions.} The ports had to be designed before the real APIs were known. The assumed controller and HR/Payroll signals are recorded as I-01, I-02, and I-05 and must be checked with the vendors, while the other assumptions are business rules or team policies that TMC has to approve.
   \item \textbf{Keeping repeated rules consistent.} Review exposed differences between summaries of the same rule. We use the detailed flows and operating policies as the reference, and shorten repeated explanations elsewhere instead of maintaining several full versions.
+  \item \textbf{A port that is still too wide.} ISP is not applied evenly in the prototype. IScanRepository has 14 operations. GateTransactionProcessor uses all 14, but GateCoreFacade only needs get\_scan and save\_scan, so the facade depends on more than it calls. This is a limitation in how wide the dependency is, not a bug in behavior, and we kept the code as it is for the submission. A better design would split the port into narrower read and write interfaces for each consumer.
   \item \textbf{Boundaries versus the 2-second limit.} More boundaries could add delay on the gate path. Keeping the boundaries in-process inside each application kept the separation without extra network calls.
 \end{itemize}
 
